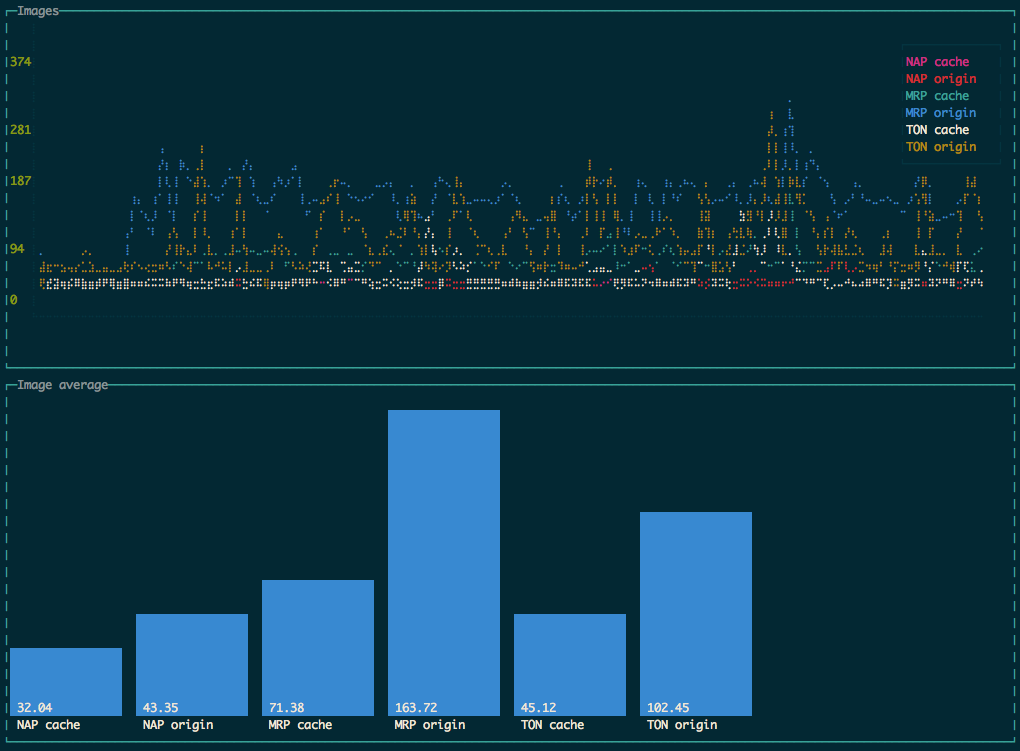
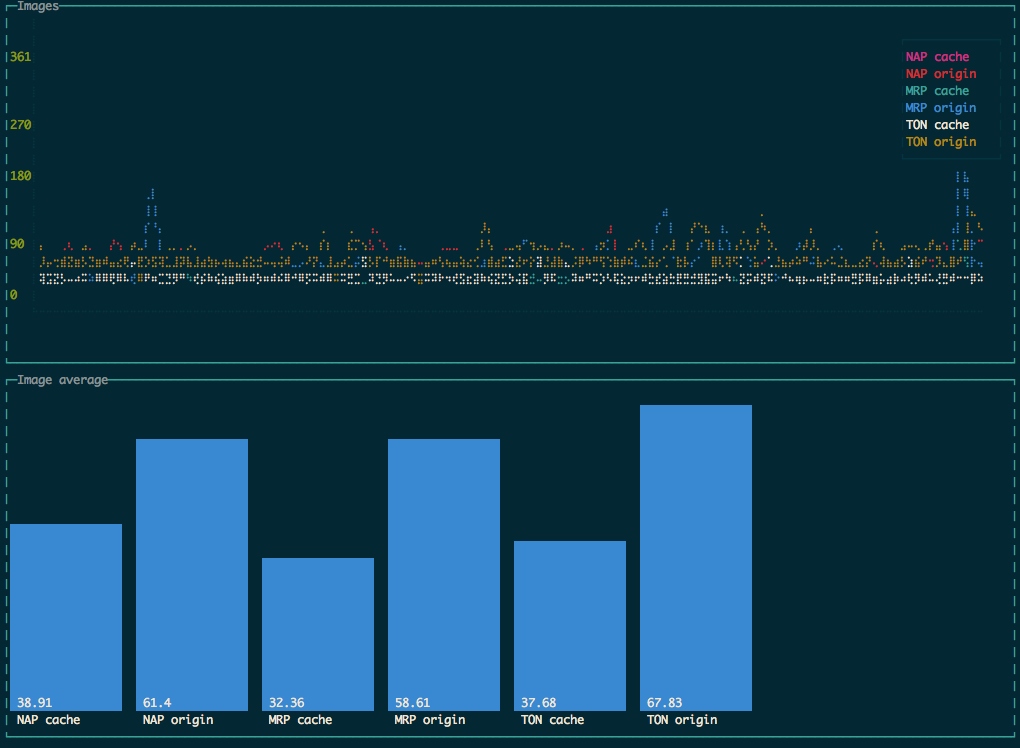
loading and saving benchmarks from disk

diff --git a/build/index.js b/build/index.js
@@ -10,32 +10,45 @@ var graph = require('./src/graph');
 var requestPromise = require('./src/request-promise');
 var collectPids = require('./src/collect-pids');
 var getImagePerformanceAverages = require('./src/image-performance');
+var fileSystem = require('./src/file-system');
 
 (function _callee() {
-    var brandPids, performance;
+    var benchMarkFilename, performance, brandPids;
     return _regenerator2.default.async(function _callee$(_context) {
         while (1) {
             switch (_context.prev = _context.next) {
                 case 0:
-                    _context.next = 2;
-                    return _regenerator2.default.awrap(collectPids());
+                    benchMarkFilename = process.env.BENCHMARK_FILENAME;
 
-                case 2:
-                    brandPids = _context.sent;
-                    _context.next = 5;
-                    return _regenerator2.default.awrap(getImagePerformanceAverages('net-a-porter', brandPids.nap.pids));
+                    if (!benchMarkFilename) {
+                        _context.next = 5;
+                        break;
+                    }
+
+                    performance = fileSystem.loadBenchmarksFromDisk(benchMarkFilename);
+                    _context.next = 19;
+                    break;
 
                 case 5:
+                    _context.next = 7;
+                    return _regenerator2.default.awrap(collectPids());
+
+                case 7:
+                    brandPids = _context.sent;
+                    _context.next = 10;
+                    return _regenerator2.default.awrap(getImagePerformanceAverages('net-a-porter', brandPids.nap.pids));
+
+                case 10:
                     _context.t0 = _context.sent;
-                    _context.next = 8;
+                    _context.next = 13;
                     return _regenerator2.default.awrap(getImagePerformanceAverages('mrporter', brandPids.mrp.pids));
 
-                case 8:
+                case 13:
                     _context.t1 = _context.sent;
-                    _context.next = 11;
+                    _context.next = 16;
                     return _regenerator2.default.awrap(getImagePerformanceAverages('theoutnet', brandPids.ton.pids));
 
-                case 11:
+                case 16:
                     _context.t2 = _context.sent;
                     performance = {
                         nap: _context.t0,
@@ -43,9 +56,15 @@ var getImagePerformanceAverages = require('./src/image-performance');
                         ton: _context.t2
                     };
 
+                    fileSystem.saveBenchmarksToDisk(performance);
+
+                case 19:
+                    ;
+
+                    // load pids from file
                     graph(performance);
 
-                case 14:
+                case 21:
                 case 'end':
                     return _context.stop();
             }

diff --git a/index.js b/index.js
@@ -2,13 +2,26 @@ const graph = require('./src/graph');
 const requestPromise = require('./src/request-promise');
 const collectPids = require('./src/collect-pids');
 const getImagePerformanceAverages = require('./src/image-performance');
+const fileSystem = require('./src/file-system');
 
 (async function() {
-    var brandPids = await collectPids();
-    var performance = {
-        nap: await getImagePerformanceAverages('net-a-porter', brandPids.nap.pids),
-        mrp: await getImagePerformanceAverages('mrporter', brandPids.mrp.pids),
-        ton: await getImagePerformanceAverages('theoutnet', brandPids.ton.pids)
+
+    const benchMarkFilename = process.env.BENCHMARK_FILENAME;
+    var performance;
+
+    if (benchMarkFilename) {
+        performance = fileSystem.loadBenchmarksFromDisk(benchMarkFilename);
+    } else {
+        var brandPids = await collectPids();
+        performance = {
+            nap: await getImagePerformanceAverages('net-a-porter', brandPids.nap.pids),
+            mrp: await getImagePerformanceAverages('mrporter', brandPids.mrp.pids),
+            ton: await getImagePerformanceAverages('theoutnet', brandPids.ton.pids)
+        }
+        fileSystem.saveBenchmarksToDisk(performance);
     };
+
+
+    // load pids from file
     graph(performance);
 })();

diff --git a/src/collect-pids.js b/src/collect-pids.js
@@ -6,15 +6,18 @@ async function init() {
 }
 
 function getLadUrl(brand, numberOfPids = 100) {
-    return `http://lad-api.net-a-porter.com:80/${brand}/GB/${numberOfPids}/0/pids?visibility=visible&whatsNew=Now`;
+    var url = `http://lad-api.net-a-porter.com:80/${brand}/GB/${numberOfPids}/0/pids?visibility=visible&whatsNew=Now`;
+    console.log('Gettings pids from: ', url);
+    return url;
 }
 
 async function getPids() {
+    var numberOfPids = process.env.NUMBER_OF_PIDS;
     try {
         var brandPidsArr = await Promise.all([
-            requestPromise(getLadUrl('NAP'), true),
-            requestPromise(getLadUrl('MRP'), true),
-            requestPromise(getLadUrl('TON'), true)
+            requestPromise(getLadUrl('NAP', numberOfPids), true),
+            requestPromise(getLadUrl('MRP', numberOfPids), true),
+            requestPromise(getLadUrl('TON', numberOfPids), true)
         ]);
         return {
             nap: brandPidsArr[0].body,

diff --git a/src/file-system.js b/src/file-system.js
@@ -1,0 +1,25 @@
+const fs = require('fs');
+const fileSystem = {
+   saveBenchmarksToDisk(performanceMetrics) {
+      const date = new Date()
+                        .toISOString()
+                        .replace(/T/, ' ')
+                        .replace(/\..+/, '');
+      const filename = `${date}.json`;
+      const path = `./benchmarks/${filename}`;
+      console.log('Writing performance benchmarks to disk: ', filename);
+      fs.writeFileSync(path, JSON.stringify(performanceMetrics));
+   },
+   loadBenchmarksFromDisk(filename) {
+      const path = `./benchmarks/${filename}`;
+      console.log('Reading performance benchmarks from disk: ', filename);
+      return JSON.parse(fs.readFileSync(path, {
+         encoding: 'utf8'
+      }));
+   }
+};
+
+module.exports = {
+   saveBenchmarksToDisk: fileSystem.saveBenchmarksToDisk,
+   loadBenchmarksFromDisk:fileSystem.loadBenchmarksFromDisk
+};

diff --git a/src/graph.js b/src/graph.js
@@ -2,8 +2,6 @@ const blessed = require('blessed');
 const contrib = require('blessed-contrib');
 
 function init(metrics) {
-   console.log('metrics');
-   console.log(metrics);
     const screen = blessed.screen();
     const grid = new contrib.grid({
         rows: 2,
@@ -19,7 +17,7 @@ function init(metrics) {
         },
         xLabelPadding: 3,
         xPadding: 5,
-        label: 'Images',
+        label: 'Images average',
         showLegend: true
     });
 
@@ -36,7 +34,7 @@ function init(metrics) {
     line.setData(lineData);
 
     var bar = grid.set(1, 0, 1, 1, contrib.bar, {
-        label: 'Image average',
+        label: 'Brand average',
         barWidth: 15,
         barSpacing: 4,
         xOffset: 0,

diff --git a/src/image-performance.js b/src/image-performance.js
@@ -1,7 +1,7 @@
 var requestPromise = require('./request-promise');
 
 async function getImagePerformanceAverages(brand, pids) {
-    console.log('load', brand);
+    console.log('Performance testing: ', brand);
     var imagePerformance = [];
     var tempAverage = {
         origin: [],

diff --git a/README.md b/README.md
@@ -1,0 +1,4 @@
+readme
+
+NUMBER_OF_PIDS
+BENCHMARK_FILENAME
